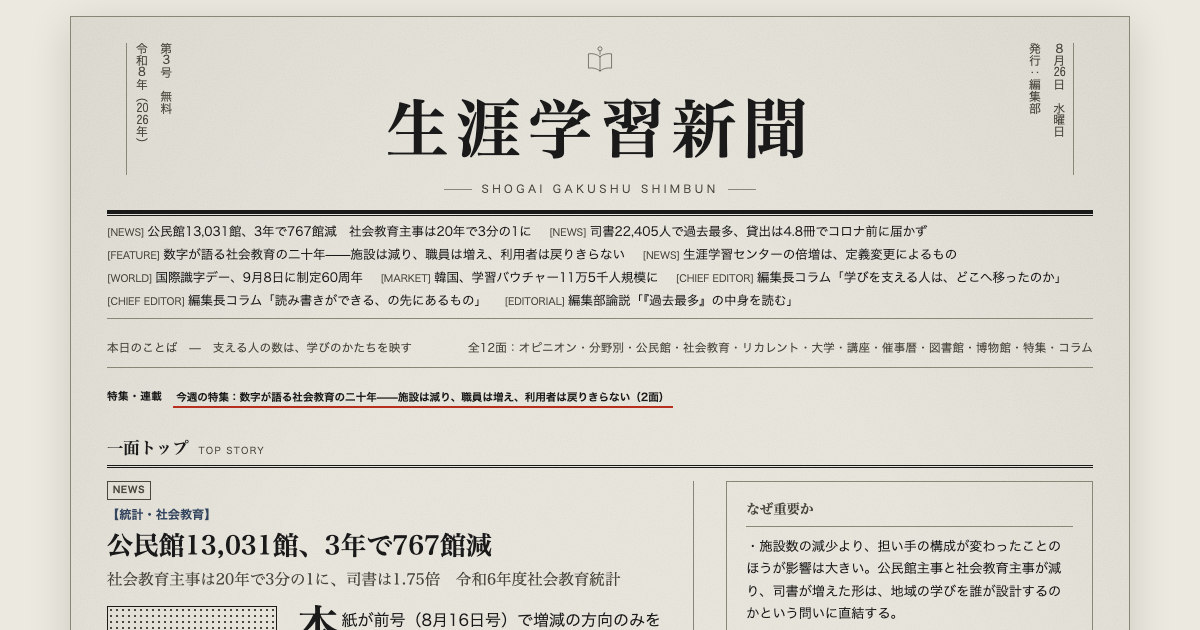
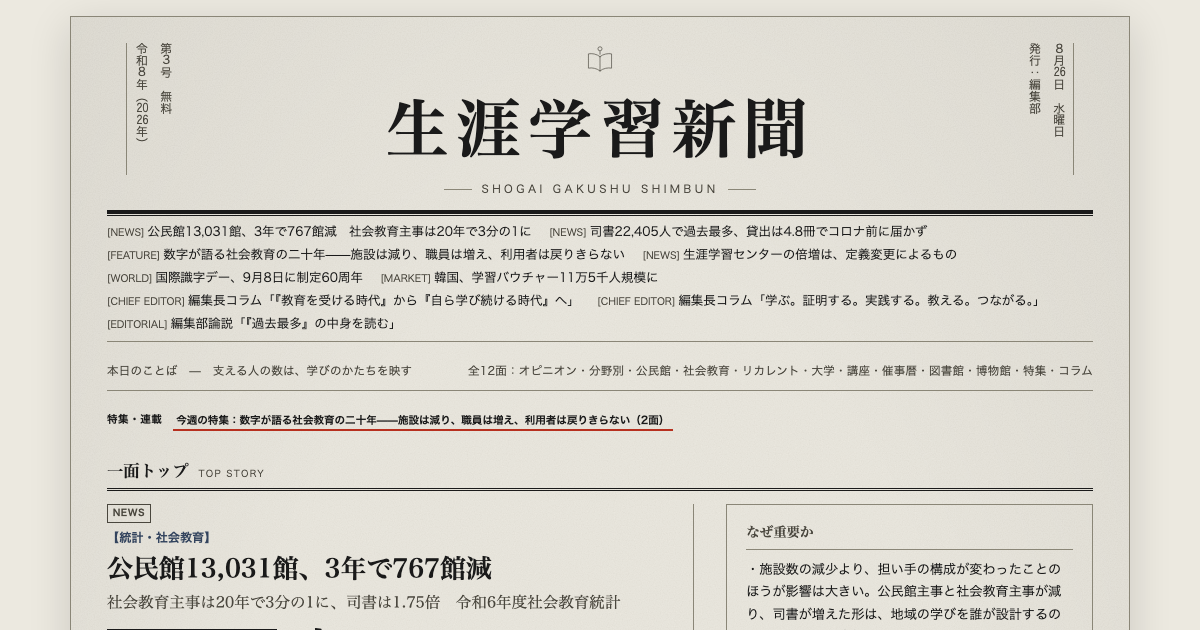
第3号の編集長コラム2本を本人の寄稿に差し替え
編集長（山仲元）から2本の原稿を受領し、私が起草した仮原稿と差し替えた。

- 第3回「『教育を受ける時代』から『自ら学び続ける時代』へ」
  1949年エルシノアの第1回国際成人教育会議から、1972年フォール報告
  『Learning to Be』の学習社会構想、1996年ドロール報告の学習の四本柱、
  2015年のSDG4、2022年マラケシュのCONFINTEA VIIまで、世界が半世紀以上
  かけて育ててきた歩みを辿る（14段落）
- 第4回「学ぶ。証明する。実践する。教える。つながる。」
  マイクロクレデンシャル、European Digital Credentials for Learning、
  OECD『Giving Informal Learning the Recognition it Deserves』（2026年6月）。
  前号のデジタルバッジのコラムの続編にあたる（14段落）

事実確認: CONFINTEA VIIの「140を超える国々」は142のユネスコ加盟国が参加
（2022年6月15〜17日）で正確。国際成人教育会議の約12年ごとの開催間隔、
OECD報告書の発表時期も本紙の取材メモと整合することを確認した。

あわせて見出し帯・紙面索引・3面の参照・meta・index・backnumbers・
feed.xml・archive.html のタイトルを更新し、OGP画像を再生成。

検証: JS構文OK／p2の3ボックスはHTML側とarticles側で一致（コラム1は1,280字で
完全一致）／全12面でデスクトップ・モバイルとも横溢れなし／
?goto=col-chief-editor-003b でのディープリンク表示を確認

Changed region(s): [[0.0925, 0.4222, 0.925, 1.0]]

diff --git a/issues/2026-08-26.html b/issues/2026-08-26.html
@@ -6,7 +6,7 @@
 <meta property="og:site_name" content="生涯学習新聞">
 <meta property="og:locale" content="ja_JP">
 <meta property="og:title" content="生涯学習新聞 — 2026年8月26日号（第3号）">
-<meta property="og:description" content="公民館13,031館、3年で767館減／社会教育主事は20年で3分の1に、司書は1.75倍／編集長コラム「学びを支える人は、どこへ移ったのか」「読み書きができる、の先にあるもの」">
+<meta property="og:description" content="公民館13,031館、3年で767館減／社会教育主事は20年で3分の1に、司書は1.75倍／編集長コラム「『教育を受ける時代』から『自ら学び続ける時代』へ」「学ぶ。証明する。実践する。教える。つながる。」">
 <link rel="icon" href="../icons/favicon.ico">
 <link rel="apple-touch-icon" href="../icons/apple-touch-icon.png">
 <link rel="manifest" href="../manifest.json">
@@ -969,18 +969,24 @@
         <div class="col-title-row">
           <span class="type-badge" data-type="CHIEF_EDITOR">CHIEF EDITOR</span>
         </div>
-        <div class="col-title">学びを支える人は、どこへ移ったのか<br><span class="col-subtitle">編集長コラム「学びの周辺」第<span class="tcy">3</span>回</span></div>
+        <div class="col-title">「教育を受ける時代」から「自ら学び続ける時代」へ<br><span class="col-subtitle">編集長コラム「学びの周辺」第<span class="tcy">3</span>回　世界の生涯学習・半世紀の歩み</span></div>
         <div class="col-byline">編集長　山仲　元</div>
         <p class="opinion-flag">本欄は編集長個人の見解であり、事実報道ではありません。筆者は一般財団法人日本生涯学習協議会の理事長を務めていますが、本稿は同協議会の公式見解を示すものではありません。</p>
         <div class="col-excerpt">
-          <p>今号の一面に、二本の線が交差する数字が並びました。</p>
-          <p>社会教育主事は、平成十七年度の四千百十九人から千四百八十二人へ。二十年でおよそ三分の一になりました。同じ期間に、図書館の司書は一万二千七百八十一人から二万二千四百五人へと、およそ一・七五倍に増えています。減った職と、増えた職。どちらも地域の学びを支える仕事です。</p>
-          <p>この二本の線を、単純な明暗として読むことはできません。司書が増えたのは、図書館が地域の学びの窓口として期待され、実際に人を配置してきた結果です。喜ばしいことだと思います。問題は、減ったほうの線が何を意味するかです。</p>
-          <p>社会教育主事という職の特徴は、特定の施設に属さないところにありました。公民館の講座も、学校と地域の連携も、青少年の活動も、横断して見渡し、つなぐ。建物ではなく地域を担当する職です。この職が三分の一になったということは、地域全体を見渡す視点が、それだけ薄くなったということでもあります。</p>
-          <p>司書は図書館を、学芸員は博物館を、それぞれ深く支えます。けれども、公民館の講座に来ている人と、図書館の読書会に来ている人と、博物館の講座に来ている人が、実は同じ悩みを抱えているかもしれない——そのことに気づくのは、施設の側に立つ人ではなく、施設と施設の間に立つ人の役割でした。</p>
-          <p>社会教育士という称号が生まれた背景には、この空白を埋めたいという願いがあったはずです。本紙が創刊号から、その養成をめぐる議論を追い続けてきたのも、同じ理由からです。ただ、称号を用意することと、その人が働く場所を用意することは、やはり別の仕事です。</p>
-          <p>統計は、起きたことしか教えてくれません。二十年かけて何が減ったのかは分かっても、その結果として何が起きなかったのか——開かれなかった講座、出会わなかった人、生まれなかった学びの輪——は、どの表にも載りません。数字を読むというのは、載っていないもののほうを想像する作業なのだと思います。</p>
-          <p><strong>編集長より</strong>　人が減っても施設が残れば、事業は続けられます。しかし、続けることと、新しく始めることは違います。次の二十年に何を始めるのかを考えるとき、それを構想する人がどこにいるのかを、あわせて考えなければなりません。</p>
+          <p>私たちは今、「生涯学習」という言葉を当たり前のように使っています。しかし、世界の教育の歴史を振り返ってみると、「人は何歳になっても学ぶ」という考え方が国際社会の共通認識となったのは、それほど昔のことではありません。</p>
+          <p>第二次世界大戦後、世界では教育の役割そのものが問い直されるようになりました。</p>
+          <p>1949年、UNESCOはデンマークのエルシノアで第1回国際成人教育会議を開催しました。戦争が終わって間もない時代です。そこで議論されたのは、単に仕事に必要な知識を教えるということではありませんでした。成人教育を通じて、平和や国際理解をどう築いていくか。その後、この国際会議は約12年ごとに開催され、世界の成人教育・生涯学習政策に大きな影響を与えていきます。</p>
+          <p>大きな転換点となったのが1972年です。</p>
+          <p>UNESCOのエドガー・フォール委員会が発表した『Learning to Be（未来の学習）』、いわゆる「フォール報告」は、「教育は子どもや若者だけのものではなく、人間の一生を通じて行われるべきものだ」という考えを世界に示しました。そして、「生涯教育」とともに「学習社会（Learning Society）」という構想を打ち出します。</p>
+          <p>学校を卒業したら教育は終わり、ではない。社会そのものが、人を育てる場所になる。現在では自然に聞こえるこの考え方が、半世紀以上前に国際社会へ提示されたことは、生涯学習の歴史を考えるうえで非常に重要です。</p>
+          <p>さらに1996年、ジャック・ドロールを委員長とするUNESCOの国際委員会が『Learning: The Treasure Within（学習―秘められた宝）』を発表します。ここで示されたのが、有名な「学習の四本柱」です。「知ることを学ぶ」「為すことを学ぶ」「共に生きることを学ぶ」「人間として生きることを学ぶ」。</p>
+          <p>学ぶ目的を、職業能力や知識の獲得だけに限定しない。人との関係、社会への参加、自分自身の成長まで含めて「学び」と考える。この考え方は、現在の生涯学習にもそのままつながっています。</p>
+          <p>そして2015年、国連の持続可能な開発目標、SDGsが採択されました。SDG4には、「すべての人々に包摂的かつ公平で質の高い教育を提供し、生涯学習の機会を促進する」という考え方が明確に位置づけられています。つまり、生涯学習は「学びたい人の趣味」から、世界が実現すべき社会基盤の一つへと位置づけが変わったのです。</p>
+          <p>さらに2022年、モロッコのマラケシュで開催された第7回国際成人教育会議では、140を超える国々が「生涯学習への権利」を現実のものにしていく方向性を確認しました。</p>
+          <p>こうして世界の生涯学習を振り返ってみると、大きな変化が見えてきます。<strong>「教育を受ける時代」から、「自ら学び続ける時代」へ。</strong></p>
+          <p>そして今、その生涯学習はさらに次の段階に入ろうとしています。AI、デジタル化、人生100年時代、働き方の変化。一度取得した知識や資格だけで一生を過ごすことが難しい社会になったからこそ、「何歳になっても学び直すこと」は特別なことではなくなってきました。</p>
+          <p>生涯学習とは、人生の後半にする勉強ではありません。<strong>人生そのものを豊かにし、変化する社会の中で自分らしく生き続けるための「学びの文化」なのです。</strong></p>
+          <p>世界が半世紀以上かけて育ててきた生涯学習という考え方は、今、これまで以上に私たちの身近なものになろうとしています。</p>
         </div>
         <button type="button" class="read-more" data-article-id="col-chief-editor-003">続きを読む（関連記事・タグなど）</button>
       </div>
@@ -1076,7 +1082,7 @@
         <h4>海外・国際機関</h4>
         <ul>
           <li><a href="#" onclick="jumpToArticle(event,'p8')"><span class="cc-badge">[WORLD]</span>国際識字デー、9月8日に制定60周年</a><span class="cc-desc">識字を欠く成人は世界で7億3,900万人。</span></li>
-          <li><a href="#" onclick="event.preventDefault();openArticleDialog('col-chief-editor-003b')"><span class="cc-badge">[CHIEF EDITOR]</span>読み書きができる、の先にあるもの</a><span class="cc-desc">編集長コラム。識字の定義の拡張について。</span></li>
+          <li><a href="#" onclick="event.preventDefault();openArticleDialog('col-chief-editor-003b')"><span class="cc-badge">[CHIEF EDITOR]</span>学ぶ。証明する。実践する。教える。つながる。</a><span class="cc-desc">編集長コラム。マイクロクレデンシャルとインフォーマル学習。</span></li>
         </ul>
       </div>
       <div class="category-card">
@@ -1121,8 +1127,8 @@
       <li><time>09:00</time><span class="arr-cat">[NEWS] 講座・教室</span><a href="#" onclick="jumpToArticle(event,'p6')">全国コミュニティ・スクール研究大会、京都で開催へ</a></li>
       <li><time>09:30</time><span class="arr-cat">[NEWS] 図書館</span><a href="#" onclick="jumpToArticle(event,'p8')">司書22,405人で過去最多、貸出は4.8冊</a></li>
       <li><time>09:45</time><span class="arr-cat">[WORLD] 国際機関</span><a href="#" onclick="event.preventDefault();openArticleDialog('world-003')">国際識字デー、9月8日に制定60周年</a></li>
-      <li><time>10:00</time><span class="arr-cat">[CHIEF_EDITOR] コラム</span><a href="#" onclick="event.preventDefault();openArticleDialog('col-chief-editor-003')">学びを支える人は、どこへ移ったのか</a></li>
-      <li><time>10:10</time><span class="arr-cat">[CHIEF_EDITOR] コラム</span><a href="#" onclick="event.preventDefault();openArticleDialog('col-chief-editor-003b')">読み書きができる、の先にあるもの</a></li>
+      <li><time>10:00</time><span class="arr-cat">[CHIEF_EDITOR] コラム</span><a href="#" onclick="event.preventDefault();openArticleDialog('col-chief-editor-003')">「教育を受ける時代」から「自ら学び続ける時代」へ</a></li>
+      <li><time>10:10</time><span class="arr-cat">[CHIEF_EDITOR] コラム</span><a href="#" onclick="event.preventDefault();openArticleDialog('col-chief-editor-003b')">学ぶ。証明する。実践する。教える。つながる。</a></li>
       <li><time>10:15</time><span class="arr-cat">[EDITORIAL] 論説</span><a href="#" onclick="event.preventDefault();openArticleDialog('editorial-003')">「過去最多」の中身を読む</a></li>
       <li><time>10:30</time><span class="arr-cat">[FEATURE] 特集</span><a href="#" onclick="event.preventDefault();openArticleDialog('feature-003')">数字が語る社会教育の二十年</a></li>
       <li><time>11:00</time><span class="arr-cat">[NEWS] 博物館</span><a href="#" onclick="jumpToArticle(event,'p9')">博物館1,346館、学芸員5,618人に</a></li>
@@ -1541,7 +1547,7 @@
 
     <ul class="toc-list">
       <li><span class="toc-page">1面</span><span class="toc-title">総合</span><span class="toc-desc">見出し帯／特集・連載／一面トップ「公民館13,031館、3年で767館減」／一面サブニュース（定義変更、図書館貸出、韓国バウチャー、国際識字デー）／指定管理者制度は公立施設の約3割</span></li>
-      <li><span class="toc-page">2面</span><span class="toc-title">オピニオン面</span><span class="toc-desc">編集長コラム「学びを支える人は、どこへ移ったのか」（全文）／編集長コラム「読み書きができる、の先にあるもの」（全文）／編集部論説「『過去最多』の中身を読む」（全文）／今週の特集「数字が語る社会教育の二十年」（全文）</span></li>
+      <li><span class="toc-page">2面</span><span class="toc-title">オピニオン面</span><span class="toc-desc">編集長コラム「『教育を受ける時代』から『自ら学び続ける時代』へ」（全文）／編集長コラム「学ぶ。証明する。実践する。教える。つながる。」（全文）／編集部論説「『過去最多』の中身を読む」（全文）／今週の特集「数字が語る社会教育の二十年」（全文）</span></li>
       <li><span class="toc-page">3面</span><span class="toc-title">分野別ニュース・小欄面</span><span class="toc-desc">8分野の見出し一覧／小欄・短信12欄／新着記事一覧14件</span></li>
       <li><span class="toc-page">4面</span><span class="toc-title">公民館・社会教育</span><span class="toc-desc">公民館の利用者はコロナ前の74％／生涯学習センターの倍増は定義変更によるもの（前号への補足）</span></li>
       <li><span class="toc-page">5面</span><span class="toc-title">リカレント・大学</span><span class="toc-desc">韓国の学習バウチャー11万5千人規模／大学の公開講座、秋の募集が本格化</span></li>
@@ -1717,65 +1723,77 @@
       image: null, imageCaption: null, featured: true, priority: 1, status: 'published',
     },
     {
-      id: 'col-chief-editor-003', slug: 'manabi-wo-sasaeru-hito-wa-dokohe-utsutta-noka', articleType: 'CHIEF_EDITOR',
-      title: '学びを支える人は、どこへ移ったのか',
-      subtitle: '編集長コラム「学びの周辺」第3回',
-      lead: '社会教育主事は20年で3分の1に、図書館の司書は1.75倍に。減った職と増えた職、どちらも地域の学びを支える仕事です。この二本の線が意味するものを考えます。',
-      category: 'コラム', tags: ['編集長コラム', '社会教育主事', '担い手', '統計'],
+      id: 'col-chief-editor-003', slug: 'kyoiku-wo-ukeru-jidai-kara-mizukara-manabi-tsuzukeru-jidai-he', articleType: 'CHIEF_EDITOR',
+      title: '「教育を受ける時代」から「自ら学び続ける時代」へ',
+      subtitle: '編集長コラム「学びの周辺」第3回　世界の生涯学習・半世紀の歩み',
+      lead: '「人は何歳になっても学ぶ」という考え方が国際社会の共通認識となったのは、それほど昔のことではありません。1949年のエルシノアから2022年のマラケシュまで、世界が半世紀以上かけて育ててきた歩みを振り返ります。',
+      category: 'コラム', tags: ['編集長コラム', '生涯学習の歴史', 'ユネスコ', 'フォール報告', 'ドロール報告', 'SDGs'],
       author: '山仲　元', authorRole: '生涯学習新聞 編集長',
       publishedAt: '2026-08-26T10:00:00+09:00', updatedAt: '2026-08-26T10:00:00+09:00',
-      sourceName: '生涯学習新聞編集部（編集長本人の所感）', sourceUrl: null, sourcePublishedAt: null,
+      sourceName: '生涯学習新聞編集部（編集長本人の寄稿）', sourceUrl: null, sourcePublishedAt: null,
       factOrOpinion: 'opinion',
       editorNote: '本欄は編集長個人の見解であり、事実報道ではありません。筆者は一般財団法人日本生涯学習協議会の理事長を務めていますが、本稿は同協議会の公式見解を示すものではありません。',
       keyPoints: [
-        '社会教育主事の特徴は、特定の施設に属さず地域全体を横断して見渡す職であったこと',
-        'その職が3分の1になったことは、地域を見渡す視点がそれだけ薄くなったことを意味する',
-        '統計は起きたことしか教えない。開かれなかった講座や生まれなかった学びの輪は表に載らない',
+        '1949年のエルシノア会議以降、国際成人教育会議は約12年ごとに開かれ、世界の政策に影響を与えてきた',
+        '1972年のフォール報告が「学習社会」を、1996年のドロール報告が「学習の四本柱」を示した',
+        '2015年のSDG4により、生涯学習は世界が実現すべき社会基盤の一つへと位置づけが変わった',
       ],
       body: [
-        '今号の一面に、二本の線が交差する数字が並びました。',
-        '社会教育主事は、平成十七年度の四千百十九人から千四百八十二人へ。二十年でおよそ三分の一になりました。同じ期間に、図書館の司書は一万二千七百八十一人から二万二千四百五人へと、およそ一・七五倍に増えています。減った職と、増えた職。どちらも地域の学びを支える仕事です。',
-        'この二本の線を、単純な明暗として読むことはできません。司書が増えたのは、図書館が地域の学びの窓口として期待され、実際に人を配置してきた結果です。喜ばしいことだと思います。問題は、減ったほうの線が何を意味するかです。',
-        '社会教育主事という職の特徴は、特定の施設に属さないところにありました。公民館の講座も、学校と地域の連携も、青少年の活動も、横断して見渡し、つなぐ。建物ではなく地域を担当する職です。この職が三分の一になったということは、地域全体を見渡す視点が、それだけ薄くなったということでもあります。',
-        '司書は図書館を、学芸員は博物館を、それぞれ深く支えます。けれども、公民館の講座に来ている人と、図書館の読書会に来ている人と、博物館の講座に来ている人が、実は同じ悩みを抱えているかもしれない——そのことに気づくのは、施設の側に立つ人ではなく、施設と施設の間に立つ人の役割でした。',
-        '社会教育士という称号が生まれた背景には、この空白を埋めたいという願いがあったはずです。本紙が創刊号から、その養成をめぐる議論を追い続けてきたのも、同じ理由からです。ただ、称号を用意することと、その人が働く場所を用意することは、やはり別の仕事です。',
-        '統計は、起きたことしか教えてくれません。二十年かけて何が減ったのかは分かっても、その結果として何が起きなかったのか——開かれなかった講座、出会わなかった人、生まれなかった学びの輪——は、どの表にも載りません。数字を読むというのは、載っていないもののほうを想像する作業なのだと思います。',
-        '編集長より　人が減っても施設が残れば、事業は続けられます。しかし、続けることと、新しく始めることは違います。次の二十年に何を始めるのかを考えるとき、それを構想する人がどこにいるのかを、あわせて考えなければなりません。',
+        "私たちは今、「生涯学習」という言葉を当たり前のように使っています。しかし、世界の教育の歴史を振り返ってみると、「人は何歳になっても学ぶ」という考え方が国際社会の共通認識となったのは、それほど昔のことではありません。",
+        "第二次世界大戦後、世界では教育の役割そのものが問い直されるようになりました。",
+        "1949年、UNESCOはデンマークのエルシノアで第1回国際成人教育会議を開催しました。戦争が終わって間もない時代です。そこで議論されたのは、単に仕事に必要な知識を教えるということではありませんでした。成人教育を通じて、平和や国際理解をどう築いていくか。その後、この国際会議は約12年ごとに開催され、世界の成人教育・生涯学習政策に大きな影響を与えていきます。",
+        "大きな転換点となったのが1972年です。",
+        "UNESCOのエドガー・フォール委員会が発表した『Learning to Be（未来の学習）』、いわゆる「フォール報告」は、「教育は子どもや若者だけのものではなく、人間の一生を通じて行われるべきものだ」という考えを世界に示しました。そして、「生涯教育」とともに「学習社会（Learning Society）」という構想を打ち出します。",
+        "学校を卒業したら教育は終わり、ではない。社会そのものが、人を育てる場所になる。現在では自然に聞こえるこの考え方が、半世紀以上前に国際社会へ提示されたことは、生涯学習の歴史を考えるうえで非常に重要です。",
+        "さらに1996年、ジャック・ドロールを委員長とするUNESCOの国際委員会が『Learning: The Treasure Within（学習―秘められた宝）』を発表します。ここで示されたのが、有名な「学習の四本柱」です。「知ることを学ぶ」「為すことを学ぶ」「共に生きることを学ぶ」「人間として生きることを学ぶ」。",
+        "学ぶ目的を、職業能力や知識の獲得だけに限定しない。人との関係、社会への参加、自分自身の成長まで含めて「学び」と考える。この考え方は、現在の生涯学習にもそのままつながっています。",
+        "そして2015年、国連の持続可能な開発目標、SDGsが採択されました。SDG4には、「すべての人々に包摂的かつ公平で質の高い教育を提供し、生涯学習の機会を促進する」という考え方が明確に位置づけられています。つまり、生涯学習は「学びたい人の趣味」から、世界が実現すべき社会基盤の一つへと位置づけが変わったのです。",
+        "さらに2022年、モロッコのマラケシュで開催された第7回国際成人教育会議では、140を超える国々が「生涯学習への権利」を現実のものにしていく方向性を確認しました。",
+        "こうして世界の生涯学習を振り返ってみると、大きな変化が見えてきます。「教育を受ける時代」から、「自ら学び続ける時代」へ。",
+        "そして今、その生涯学習はさらに次の段階に入ろうとしています。AI、デジタル化、人生100年時代、働き方の変化。一度取得した知識や資格だけで一生を過ごすことが難しい社会になったからこそ、「何歳になっても学び直すこと」は特別なことではなくなってきました。",
+        "生涯学習とは、人生の後半にする勉強ではありません。人生そのものを豊かにし、変化する社会の中で自分らしく生き続けるための「学びの文化」なのです。",
+        "世界が半世紀以上かけて育ててきた生涯学習という考え方は、今、これまで以上に私たちの身近なものになろうとしています。",
       ],
       relatedArticles: [
-        { title: '公民館13,031館、3年で767館減', url: 'front-lead-toukei-003' },
-        { title: '読み書きができる、の先にあるもの（編集長コラム）', url: 'col-chief-editor-003b' },
+        { title: '学ぶ。証明する。実践する。教える。つながる。（編集長コラム）', url: 'col-chief-editor-003b' },
+        { title: '国際識字デー、9月8日に制定60周年', url: 'world-003' },
       ],
       image: null, imageCaption: null, featured: true, priority: 1, status: 'published',
     },
     {
-      id: 'col-chief-editor-003b', slug: 'yomikaki-ga-dekiru-no-saki-ni-aru-mono', articleType: 'CHIEF_EDITOR',
-      title: '読み書きができる、の先にあるもの',
-      subtitle: '編集長コラム「学びの周辺」第4回　国際識字デー60周年に寄せて',
-      lead: '9月8日の国際識字デーは、今年で制定60周年を迎えます。識字率の高い日本には縁遠い話題に見えて、実はそうではないのかもしれません。',
-      category: 'コラム', tags: ['編集長コラム', '識字', '国際識字デー', 'リテラシー'],
+      id: 'col-chief-editor-003b', slug: 'manabu-shomei-suru-jissen-suru-oshieru-tsunagaru', articleType: 'CHIEF_EDITOR',
+      title: '学ぶ。証明する。実践する。教える。つながる。',
+      subtitle: '編集長コラム「学びの周辺」第4回　小さな学びを積み重ねる時代へ',
+      lead: '世界の生涯学習はいま、大きな転換期を迎えています。マイクロクレデンシャル、デジタル認定証、そしてインフォーマル学習の承認。「一度大きな資格を取得する社会」から「小さな学びを積み重ね、その成果を社会と共有する社会」へ。',
+      category: 'コラム', tags: ['編集長コラム', 'マイクロクレデンシャル', 'デジタルバッジ', 'インフォーマル学習', 'AI', 'OECD'],
       author: '山仲　元', authorRole: '生涯学習新聞 編集長',
       publishedAt: '2026-08-26T10:10:00+09:00', updatedAt: '2026-08-26T10:10:00+09:00',
-      sourceName: '生涯学習新聞編集部（編集長本人の所感）', sourceUrl: null, sourcePublishedAt: null,
+      sourceName: '生涯学習新聞編集部（編集長本人の寄稿）', sourceUrl: null, sourcePublishedAt: null,
       factOrOpinion: 'opinion',
-      editorNote: '本欄は編集長個人の見解であり、事実報道ではありません。筆者は一般財団法人日本生涯学習協議会の理事長を務めていますが、本稿は同協議会の公式見解を示すものではありません。文中の統計はユネスコの公表値によります。',
+      editorNote: '本欄は編集長個人の見解であり、事実報道ではありません。筆者は一般財団法人日本生涯学習協議会の理事長を務めていますが、本稿は同協議会の公式見解を示すものではありません。本稿は前号（8月16日号）の編集長コラム「学びを『記録』から『力』へ」の続編にあたります。',
       keyPoints: [
-        '2026年の国際識字デーは制定60周年。テーマに「人々、地球、繁栄」が並ぶ',
-        '識字の対象は文字の読み書きから、情報を判断し行動に移す力へと広がっている',
-        '日本でも、制度の説明が読めないために支援に届かない人がいる',
+        'マイクロクレデンシャルは、数時間から数週間の短い学習の成果を証明する仕組み。EUでは2022年に共通の考え方が採択された',
+        'OECDは2026年6月、インフォーマル学習の承認を求める報告書を発表。仕事や地域活動、独学で得た力も学習成果に含める',
+        '学ぶ・証明する・実践する・教える・つながる——この循環そのものが生涯学習になっていく',
       ],
       body: [
-        '九月八日は国際識字デーです。一九六六年のユネスコ総会で定められ、今年で六十年になります。',
-        '今年のテーマは「人々、地球、繁栄のための識字」。文字を読めるようにする、という一点だった主題に、地球環境と経済がつながっている点が目を引きます。ユネスコによれば、基本的な識字能力を欠く青年と成人は、二〇二四年時点で世界に少なくとも七億三千九百万人。学校に通っていない子どもと若者は二億七千二百万人にのぼるといいます。',
-        '日本の識字率は高い、と私たちはつい考えます。事実、文字を読めない人はごくわずかでしょう。けれども、テーマに掲げられた三つの言葉を眺めていると、識字という語が指す範囲が変わってきていることに気づきます。',
-        '災害の避難情報を読んで自分の行動を決める。行政の手続きをオンラインで済ませる。健康診断の結果を理解して医師に質問する。契約書の条項を読んで不利な点に気づく。生成AIが書いた文章を、鵜呑みにせずに確かめる。これらはすべて、文字が読めることの先にある力です。',
-        '公民館で長く講座を見てきて感じるのは、この「先にある力」に不安を持つ方が、決して少なくないということです。スマートフォンの使い方講座に来られる方の質問は、操作の手順よりも「これを押して大丈夫か」という判断の部分に集中します。読めないのではなく、読んだ後にどうすればよいかが分からない。そこに支援が要ります。',
-        '制度の側から見ると、ここは落とし穴になりやすい領域です。支援制度は用意されている。案内も配られている。けれども、その案内を読んで自分が対象だと判断し、申請書を書いて窓口へ持っていくまでには、いくつもの段階があります。どこか一つでつまずけば、制度は存在していても届きません。前号で紹介したユネスコの高齢者調査が、障壁として「講座の外側」を挙げていたことと、これは重なります。',
-        '六十年前、識字は開発途上国の課題として語られました。いま同じ言葉が、豊かとされる国々にも投げかけられています。読み書きができることを前提に組み立てられた社会が、その前提の上にさらに多くを要求するようになったからです。',
-        '編集長より　生涯学習の役割は、新しい知識を増やすことだけではありません。すでに持っている力を、いまの社会で使えるようにし直すこと。それも学びの、大切な半分だと思います。',
+        "世界の生涯学習はいま、大きな転換期を迎えています。その背景にあるのが、AI、デジタル化、働き方の変化、長寿化です。",
+        "これまでの社会では、「学校で学ぶ→就職する→身につけた知識や技術を使って働く」という人生モデルが一般的でした。しかし現在は、一度身につけた知識だけで40年、50年と働き続けることが難しくなっています。",
+        "OECDは2025年の教育政策報告で、デジタル化や人口構造の変化によって「いつ、どこで、なぜ学ぶのか」が変化していると指摘しています。さらに2026年には、AI時代に対応するため、AIリテラシー、デジタルスキル、批判的思考を教育に組み込み、成人にも継続的なアップスキリング、リスキリングの機会を提供する必要性を強調しています。",
+        "そこで世界的に注目されているのが、「小さな学びを積み上げていく」という考え方です。代表的なものが「マイクロクレデンシャル」です。大学の学位のように数年間学んで一つの大きな資格を取得するだけではなく、数時間、数日、数週間といった比較的短い学習によって身につけた知識や技能について、その学習成果を証明していきます。",
+        "EUでは2022年に、マイクロクレデンシャルを生涯学習や雇用に活用するための共通的な考え方が採択され、2025年から2026年にかけて各国で実装が進んでいます。",
+        "そこで重要になるのが、デジタル認定証やデジタルバッジです。紙の認定証をデジタル画像にしただけではありません。誰が発行したのか。何を学んだのか。どのような評価を受けたのか。本当にその人が取得したものなのか。こうした情報を確認でき、本人が自分の学習履歴として保存し、企業や教育機関などへ提示できる仕組みへと進化しています。",
+        "EUではすでに「European Digital Credentials for Learning」という仕組みが運用され、学位、研修修了証、マイクロクレデンシャルなどをデジタルで発行し、真正性を確認しながら共有することが可能になっています。",
+        "これは生涯学習にとって、とても大きな変化です。これまでは「どこで学んだか」が重視されてきました。これからは、「何を学び、何ができるようになったのか」が、より重要になっていくからです。",
+        "もう一つ興味深い動きがあります。2026年6月、OECDは『Giving Informal Learning the Recognition it Deserves』という報告書を発表しました。学校や講座で学んだことだけではなく、仕事、地域活動、人との交流、独学など、日常生活の中で身につけた能力も、生涯学習の重要な一部として捉える必要があるという考え方です。",
+        "これは、生涯学習に関わる私たちにとって重要な視点ではないでしょうか。例えば、ある技術を学び、作品をつくれるようになる。次に人へ教える。教室を開く。仲間が集まる。コミュニティが生まれる。さらに、その経験を生かして新しい活動を始める。ここまで含めて、その人の「学習成果」なのです。",
+        "AIが広がれば広がるほど、人間にしかできないことの価値も高まります。創造すること。人に伝えること。人とつながること。誰かの成長を支えること。地域やコミュニティをつくること。",
+        "だから私は、これからの生涯学習は単なる「資格取得」ではなくなると考えています。学ぶ。証明する。実践する。教える。つながる。そして、また学ぶ。この循環そのものが、生涯学習になっていく。",
+        "認定証や資格も、学びの「ゴール」ではありません。むしろ、その人が次の活動へ進むための「パスポート」になっていくのではないでしょうか。",
+        "世界の生涯学習は今、「一度大きな資格を取得する社会」から、「人生を通じて小さな学びを積み重ね、その成果を社会と共有する社会」へ動き始めています。日本の生涯学習も、この大きな変化をどう取り込んでいくのか。まさに今、その次の形を考える時期に来ています。",
       ],
       relatedArticles: [
-        { title: '国際識字デー、9月8日に制定60周年', url: 'world-003' },
+        { title: '「教育を受ける時代」から「自ら学び続ける時代」へ（編集長コラム）', url: 'col-chief-editor-003' },
       ],
       image: null, imageCaption: null, featured: true, priority: 1, status: 'published',
       displaySlot: 'auto-op-articles-p2',
@@ -2033,8 +2051,8 @@
       { type: 'NEWS', text: '生涯学習センターの倍増は、定義変更によるもの', href: '#p4' },
       { type: 'WORLD', text: '国際識字デー、9月8日に制定60周年', href: '#p8' },
       { type: 'MARKET', text: '韓国、学習バウチャー11万5千人規模に', href: '#p5' },
-      { type: 'CHIEF_EDITOR', text: '編集長コラム「学びを支える人は、どこへ移ったのか」', href: 'col-chief-editor-003' },
-      { type: 'CHIEF_EDITOR', text: '編集長コラム「読み書きができる、の先にあるもの」', href: 'col-chief-editor-003b' },
+      { type: 'CHIEF_EDITOR', text: '編集長コラム「『教育を受ける時代』から『自ら学び続ける時代』へ」', href: 'col-chief-editor-003' },
+      { type: 'CHIEF_EDITOR', text: '編集長コラム「学ぶ。証明する。実践する。教える。つながる。」', href: 'col-chief-editor-003b' },
       { type: 'EDITORIAL', text: '編集部論説「『過去最多』の中身を読む」', href: 'editorial-003' },
     ];
     el.innerHTML = items.map((it) =>

diff --git a/archive.html b/archive.html
@@ -147,7 +147,7 @@
 </div>
 
 <script>
-  const articles = [{"issueDate": "2026-08-05", "issueLabel": "創刊第1号", "id": "front-lead-shakaikyoiku", "articleType": "NEWS", "title": "社会教育の在り方、中教審の審議が大詰めへ", "subtitle": "特別部会が意見整理を公表、社会教育士の養成も論点に", "lead": "中央教育審議会生涯学習分科会の下に置かれた「社会教育の在り方に関する特別部会」の審議が大詰めを迎えている。文部科学省は令和8年5月22日、同部会の「審議事項2に関する意見の整理」を公表した。", "category": "総合", "tags": ["政策", "中央教育審議会", "社会教育"], "publishedAt": "2026-08-05T07:00:00+09:00"}, {"issueDate": "2026-08-05", "issueLabel": "創刊第1号", "id": "col-chief-editor-001", "articleType": "CHIEF_EDITOR", "title": "創刊にあたって——学びは誰のものか", "subtitle": "編集長コラム「学びの周辺」第1回", "lead": "本日、生涯学習新聞を創刊します。制度が整うほどに、学びは「提供されるもの」の顔をし始める——その循環をどう取り戻すかを考えます。", "category": "コラム", "tags": ["編集長コラム", "創刊", "生涯学習"], "publishedAt": "2026-08-05T10:00:00+09:00"}, {"issueDate": "2026-08-05", "issueLabel": "創刊第1号", "id": "editorial-001", "articleType": "EDITORIAL", "title": "社会教育士という称号は、何を変えるのか", "subtitle": "編集部はこう見る", "lead": "中教審の特別部会と並行して、社会教育主事・社会教育士の養成に関するワーキング・グループの審議が続いている。2020年に創設された称号は、地域に何をもたらしうるのか。", "category": "論説", "tags": ["論説", "社会教育士", "担い手"], "publishedAt": "2026-08-05T10:15:00+09:00"}, {"issueDate": "2026-08-05", "issueLabel": "創刊第1号", "id": "feature-001", "articleType": "FEATURE", "title": "図書館は「読む」だけの場所ではなくなる——文科省報告書が描く次の図書館像", "subtitle": "今週の特集", "lead": "文部科学省が令和8年3月17日に公表した「図書館が拓く未来の学びと地域社会（報告書）」は、公共図書館に「読む」×「集う」×「学ぶ」の掛け算による地域共創を求めた。", "category": "特集", "tags": ["特集", "図書館", "地域共創"], "publishedAt": "2026-08-05T10:30:00+09:00"}, {"issueDate": "2026-08-05", "issueLabel": "創刊第1号", "id": "policy-001", "articleType": "MARKET", "title": "社会教育士、養成のワーキング・グループが審議継続", "subtitle": null, "lead": "「社会教育主事・社会教育士養成等の改善・充実に関するワーキング・グループ」は令和8年7月3日に第7回の議事録が公表された。2020年創設の称号は地域に定着するか。", "category": "公民館・社会教育", "tags": ["社会教育士", "担い手", "制度"], "publishedAt": "2026-08-05T10:45:00+09:00"}, {"issueDate": "2026-08-05", "issueLabel": "創刊第1号", "id": "recurrent-001", "articleType": "BUSINESS", "title": "「リカレント教育エコシステム構築支援事業」とは何か", "subtitle": null, "lead": "2025年7月18日、令和7年度から始動する「リカレント教育エコシステム構築支援事業」が発表された。大学ならではの「深い学び」を通じたキャリアアップ支援の枠組みである。", "category": "リカレント・大学", "tags": ["リカレント教育", "大学", "政策"], "publishedAt": "2026-08-05T08:30:00+09:00"}, {"issueDate": "2026-08-05", "issueLabel": "創刊第1号", "id": "recurrent-002", "articleType": "MARKET", "title": "通信制大学の在学者、約8割が社会人", "subtitle": null, "lead": "通信制大学の在学者のうち、およそ80％を社会人が占めるとされる。初年度納付金は平均20万円台とされ、費用面のハードルの低さが働きながら学ぶ層の受け皿になっている。", "category": "リカレント・大学", "tags": ["リカレント教育", "通信制大学", "社会人"], "publishedAt": "2026-08-05T08:00:00+09:00"}, {"issueDate": "2026-08-05", "issueLabel": "創刊第1号", "id": "culture-001", "articleType": "CULTURE", "title": "博物館という装置は、何を引き受けてきたか", "subtitle": null, "lead": "「望ましい基準」の全部改正でデジタルアーカイブの作成が努力義務として書き込まれた。保存と公開という博物館の二面性を、あらためて考える。", "category": "博物館・文化", "tags": ["博物館", "デジタルアーカイブ", "文化"], "publishedAt": "2026-08-05T11:00:00+09:00"}, {"issueDate": "2026-08-16", "issueLabel": "第2号", "id": "front-lead-unesco-older-adults", "articleType": "WORLD", "title": "ユネスコ、高齢者の学び直しを5か国調査", "subtitle": "日本の事例は立教セカンドステージ大学　障壁に資金・デジタル・年齢差別", "lead": "ユネスコ生涯学習研究所（UIL）が、高齢者向けリスキリング・アップスキリング事業の実施条件を比較した調査報告書を公表した。対象はコロンビア、日本、シンガポール、スウェーデン、米国の5か国である。", "category": "総合", "tags": ["海外", "ユネスコ", "シニアの学び", "リスキリング"], "publishedAt": "2026-08-16T07:00:00+09:00"}, {"issueDate": "2026-08-16", "issueLabel": "第2号", "id": "col-chief-editor-002", "articleType": "CHIEF_EDITOR", "title": "学びを「記録」から「力」へ", "subtitle": "――デジタルバッジが拓く、新しい生涯学習のかたち／編集長コラム「学びの周辺」第2回", "lead": "「受講した事実」だけでなく、「何を学び、どのような能力を身につけたのか」を社会に分かりやすく示す仕組みが要る。マイクロクレデンシャルとデジタルバッジが拓く、生涯学習の新しいかたちを考えます。", "category": "コラム", "tags": ["編集長コラム", "デジタルバッジ", "マイクロクレデンシャル", "認定制度", "生涯学習"], "publishedAt": "2026-08-16T10:15:00+09:00"}, {"issueDate": "2026-08-16", "issueLabel": "第2号", "id": "editorial-002", "articleType": "EDITORIAL", "title": "成人の16％——生涯学習は予算配分の問題である", "subtitle": "編集部はこう見る", "lead": "ILOが2026年5月5日に公表した旗艦報告書は、世界の15〜64歳のうち体系的な訓練を受けた人は16％にとどまるとした。この数字を、意欲の不足として読むことはできない。", "category": "論説", "tags": ["論説", "ILO", "社会教育費", "予算"], "publishedAt": "2026-08-16T10:30:00+09:00"}, {"issueDate": "2026-08-16", "issueLabel": "第2号", "id": "feature-002", "articleType": "FEATURE", "title": "高齢者の学び直しを、世界はどう見ているか——ユネスコ5か国調査と日本", "subtitle": "今週の特集", "lead": "ユネスコ生涯学習研究所の調査報告書が、高齢者向けリスキリング・アップスキリング事業を5か国で比較した。担い手の顔ぶれは国によってまるで違う。", "category": "特集", "tags": ["特集", "ユネスコ", "シニアの学び", "国際比較"], "publishedAt": "2026-08-16T10:45:00+09:00"}, {"issueDate": "2026-08-16", "issueLabel": "第2号", "id": "stats-002", "articleType": "NEWS", "title": "公民館は減り、図書館・博物館は過去最多", "subtitle": "令和6年度社会教育統計の確定値", "lead": "文部科学省が令和8年3月27日に公表した令和6年度社会教育統計の確定値では、施設種別で明暗が分かれた。公民館は施設数も指導系職員も減少し、図書館・博物館は過去最多となった。", "category": "公民館・社会教育", "tags": ["統計", "社会教育調査", "公民館", "図書館", "博物館"], "publishedAt": "2026-08-16T07:30:00+09:00"}, {"issueDate": "2026-08-16", "issueLabel": "第2号", "id": "policy-002", "articleType": "NEWS", "title": "中教審特別部会、8月時点でも取りまとめ未公表", "subtitle": null, "lead": "「社会教育の在り方に関する特別部会」について、本紙が確認した範囲では、8月中旬の時点でも最終的な取りまとめは公表されていない。", "category": "政策・行政", "tags": ["政策", "中央教育審議会", "社会教育"], "publishedAt": "2026-08-16T08:00:00+09:00"}, {"issueDate": "2026-08-16", "issueLabel": "第2号", "id": "recurrent-003", "articleType": "NEWS", "title": "立教セカンドステージ大学、ユネスコ報告書の事例に", "subtitle": null, "lead": "ユネスコ生涯学習研究所の高齢者リスキリング調査で、日本の事例として取り上げられたのは立教大学の「立教セカンドステージ大学」だった。2008年開設、50歳以上が対象の課程である。", "category": "リカレント・大学", "tags": ["リカレント教育", "大学", "シニアの学び", "ユネスコ"], "publishedAt": "2026-08-16T08:30:00+09:00"}, {"issueDate": "2026-08-16", "issueLabel": "第2号", "id": "recurrent-004", "articleType": "MARKET", "title": "OECD「スキル・ファースト労働市場」が問うもの", "subtitle": null, "lead": "OECDが2026年6月18日に公表した報告書は、学歴や資格ではなく実際の技能を軸に採用・人材管理・能力開発を組み替えることを主張する。学び直しの成果を誰がどう認めるのかが論点になる。", "category": "リカレント・大学", "tags": ["OECD", "リスキリング", "マイクロクレデンシャル", "採用"], "publishedAt": "2026-08-16T08:45:00+09:00"}, {"issueDate": "2026-08-16", "issueLabel": "第2号", "id": "world-002", "articleType": "WORLD", "title": "ILO、体系的な訓練を受けた成人は世界で16％", "subtitle": null, "lead": "国際労働機関（ILO）が2026年5月5日、旗艦報告書の2026年版を生涯学習をテーマに公表した。訓練機会は正規雇用に強く偏っている。", "category": "海外・国際機関", "tags": ["海外", "ILO", "成人学習", "統計"], "publishedAt": "2026-08-16T11:00:00+09:00"}, {"issueDate": "2026-08-16", "issueLabel": "第2号", "id": "library-002", "articleType": "WORLD", "title": "米国、図書館助成を140万ドル増額　解体迫られたIMLSは存続", "subtitle": null, "lead": "2026会計年度の歳出法が2026年2月3日に成立し、LSTA関連予算は前年から140万ドル増の2億1,250万ドルとなった。一方2027年度の予算教書は成人教育をゼロ要求としている。", "category": "図書館", "tags": ["海外", "米国", "図書館", "財源", "成人教育"], "publishedAt": "2026-08-16T09:45:00+09:00"}, {"issueDate": "2026-08-16", "issueLabel": "第2号", "id": "culture-002", "articleType": "CULTURE", "title": "宮城県美術館、3年ぶりに再開　「見える収蔵庫」を新設", "subtitle": null, "lead": "2026年6月20日にリニューアルオープン。約3年の休館中に「見える収蔵庫」「キッズスタジオ」が新設された。開館記念展は8月23日まで。", "category": "博物館・文化", "tags": ["博物館", "美術館", "リニューアル", "収蔵"], "publishedAt": "2026-08-16T10:00:00+09:00"}, {"issueDate": "2026-08-26", "issueLabel": "第3号", "id": "front-lead-toukei-003", "articleType": "NEWS", "title": "公民館13,031館、3年で767館減", "subtitle": "社会教育主事は20年で3分の1に、司書は1.75倍　令和6年度社会教育統計", "lead": "本紙が前号で増減の方向のみを報じた令和6年度社会教育統計について、文部科学省の公表資料から具体的な数値を確認した。公民館は13,031館で、前回令和3年度調査から767館、5.6％減った。", "category": "総合", "tags": ["統計", "社会教育", "公民館", "社会教育主事", "司書"], "publishedAt": "2026-08-26T07:00:00+09:00"}, {"issueDate": "2026-08-26", "issueLabel": "第3号", "id": "col-chief-editor-003", "articleType": "CHIEF_EDITOR", "title": "学びを支える人は、どこへ移ったのか", "subtitle": "編集長コラム「学びの周辺」第3回", "lead": "社会教育主事は20年で3分の1に、図書館の司書は1.75倍に。減った職と増えた職、どちらも地域の学びを支える仕事です。この二本の線が意味するものを考えます。", "category": "コラム", "tags": ["編集長コラム", "社会教育主事", "担い手", "統計"], "publishedAt": "2026-08-26T10:00:00+09:00"}, {"issueDate": "2026-08-26", "issueLabel": "第3号", "id": "col-chief-editor-003b", "articleType": "CHIEF_EDITOR", "title": "読み書きができる、の先にあるもの", "subtitle": "編集長コラム「学びの周辺」第4回　国際識字デー60周年に寄せて", "lead": "9月8日の国際識字デーは、今年で制定60周年を迎えます。識字率の高い日本には縁遠い話題に見えて、実はそうではないのかもしれません。", "category": "コラム", "tags": ["編集長コラム", "識字", "国際識字デー", "リテラシー"], "publishedAt": "2026-08-26T10:10:00+09:00"}, {"issueDate": "2026-08-26", "issueLabel": "第3号", "id": "editorial-003", "articleType": "EDITORIAL", "title": "「過去最多」の中身を読む——定義が変われば、数字も変わる", "subtitle": "編集部はこう見る", "lead": "生涯学習センターは496施設から1,079施設へと倍増し過去最多となった。ただし公表資料には、この増加が定義変更によるものであるという但し書きが付いている。", "category": "論説", "tags": ["論説", "統計", "生涯学習センター", "定義変更"], "publishedAt": "2026-08-26T10:15:00+09:00"}, {"issueDate": "2026-08-26", "issueLabel": "第3号", "id": "feature-003", "articleType": "FEATURE", "title": "数字が語る社会教育の二十年——施設は減り、職員は増え、利用者は戻りきらない", "subtitle": "今週の特集", "lead": "令和6年度社会教育統計は平成16年度からの推移を並べて示している。20年分を通して読むと、三つの異なる動きが同時に進んでいることが分かる。", "category": "特集", "tags": ["特集", "統計", "社会教育", "長期推移"], "publishedAt": "2026-08-26T10:30:00+09:00"}, {"issueDate": "2026-08-26", "issueLabel": "第3号", "id": "stats-003", "articleType": "NEWS", "title": "生涯学習センターの倍増は、定義変更によるもの", "subtitle": "前号の記述に但し書きを補う", "lead": "生涯学習センターは496施設から1,079施設へ117.5％増えたが、公表資料には定義変更による整理である旨の注記が付いている。", "category": "統計・調査", "tags": ["統計", "生涯学習センター", "定義変更", "訂正・補足"], "publishedAt": "2026-08-26T08:00:00+09:00"}, {"issueDate": "2026-08-26", "issueLabel": "第3号", "id": "recurrent-005", "articleType": "MARKET", "title": "韓国、学習バウチャー11万5千人規模に", "subtitle": "AI・デジタル枠を新設、国家奨学金との併給も解禁", "lead": "韓国教育部が2026年3月9日に発表した平生教育利用券事業は、支援対象を11万5千人規模としている。日本には雇用保険を介さない汎用の学習給付制度がない。", "category": "リカレント・大学", "tags": ["海外", "韓国", "学習バウチャー", "個人給付"], "publishedAt": "2026-08-26T08:30:00+09:00"}, {"issueDate": "2026-08-26", "issueLabel": "第3号", "id": "world-003", "articleType": "WORLD", "title": "国際識字デー、9月8日に制定60周年", "subtitle": null, "lead": "9月8日の国際識字デーは1966年のユネスコ総会で制定され、今年で60周年を迎える。世界式典はメキシコとの共催で9月8・9日に開かれる。", "category": "海外・国際機関", "tags": ["国際識字デー", "ユネスコ", "識字", "60周年"], "publishedAt": "2026-08-26T09:45:00+09:00"}, {"issueDate": "2026-08-26", "issueLabel": "第3号", "id": "culture-003", "articleType": "CULTURE", "title": "数えられる利用者、数えられない時間", "subtitle": null, "lead": "社会教育統計の「1施設当たり利用者数」が数えているのは、扉をくぐった回数である。何を学んだか、誰と話したかは含まれない。", "category": "博物館・文化", "tags": ["文化", "統計", "指標"], "publishedAt": "2026-08-26T11:15:00+09:00"}];
+  const articles = [{"issueDate": "2026-08-05", "issueLabel": "創刊第1号", "id": "front-lead-shakaikyoiku", "articleType": "NEWS", "title": "社会教育の在り方、中教審の審議が大詰めへ", "subtitle": "特別部会が意見整理を公表、社会教育士の養成も論点に", "lead": "中央教育審議会生涯学習分科会の下に置かれた「社会教育の在り方に関する特別部会」の審議が大詰めを迎えている。文部科学省は令和8年5月22日、同部会の「審議事項2に関する意見の整理」を公表した。", "category": "総合", "tags": ["政策", "中央教育審議会", "社会教育"], "publishedAt": "2026-08-05T07:00:00+09:00"}, {"issueDate": "2026-08-05", "issueLabel": "創刊第1号", "id": "col-chief-editor-001", "articleType": "CHIEF_EDITOR", "title": "創刊にあたって——学びは誰のものか", "subtitle": "編集長コラム「学びの周辺」第1回", "lead": "本日、生涯学習新聞を創刊します。制度が整うほどに、学びは「提供されるもの」の顔をし始める——その循環をどう取り戻すかを考えます。", "category": "コラム", "tags": ["編集長コラム", "創刊", "生涯学習"], "publishedAt": "2026-08-05T10:00:00+09:00"}, {"issueDate": "2026-08-05", "issueLabel": "創刊第1号", "id": "editorial-001", "articleType": "EDITORIAL", "title": "社会教育士という称号は、何を変えるのか", "subtitle": "編集部はこう見る", "lead": "中教審の特別部会と並行して、社会教育主事・社会教育士の養成に関するワーキング・グループの審議が続いている。2020年に創設された称号は、地域に何をもたらしうるのか。", "category": "論説", "tags": ["論説", "社会教育士", "担い手"], "publishedAt": "2026-08-05T10:15:00+09:00"}, {"issueDate": "2026-08-05", "issueLabel": "創刊第1号", "id": "feature-001", "articleType": "FEATURE", "title": "図書館は「読む」だけの場所ではなくなる——文科省報告書が描く次の図書館像", "subtitle": "今週の特集", "lead": "文部科学省が令和8年3月17日に公表した「図書館が拓く未来の学びと地域社会（報告書）」は、公共図書館に「読む」×「集う」×「学ぶ」の掛け算による地域共創を求めた。", "category": "特集", "tags": ["特集", "図書館", "地域共創"], "publishedAt": "2026-08-05T10:30:00+09:00"}, {"issueDate": "2026-08-05", "issueLabel": "創刊第1号", "id": "policy-001", "articleType": "MARKET", "title": "社会教育士、養成のワーキング・グループが審議継続", "subtitle": null, "lead": "「社会教育主事・社会教育士養成等の改善・充実に関するワーキング・グループ」は令和8年7月3日に第7回の議事録が公表された。2020年創設の称号は地域に定着するか。", "category": "公民館・社会教育", "tags": ["社会教育士", "担い手", "制度"], "publishedAt": "2026-08-05T10:45:00+09:00"}, {"issueDate": "2026-08-05", "issueLabel": "創刊第1号", "id": "recurrent-001", "articleType": "BUSINESS", "title": "「リカレント教育エコシステム構築支援事業」とは何か", "subtitle": null, "lead": "2025年7月18日、令和7年度から始動する「リカレント教育エコシステム構築支援事業」が発表された。大学ならではの「深い学び」を通じたキャリアアップ支援の枠組みである。", "category": "リカレント・大学", "tags": ["リカレント教育", "大学", "政策"], "publishedAt": "2026-08-05T08:30:00+09:00"}, {"issueDate": "2026-08-05", "issueLabel": "創刊第1号", "id": "recurrent-002", "articleType": "MARKET", "title": "通信制大学の在学者、約8割が社会人", "subtitle": null, "lead": "通信制大学の在学者のうち、およそ80％を社会人が占めるとされる。初年度納付金は平均20万円台とされ、費用面のハードルの低さが働きながら学ぶ層の受け皿になっている。", "category": "リカレント・大学", "tags": ["リカレント教育", "通信制大学", "社会人"], "publishedAt": "2026-08-05T08:00:00+09:00"}, {"issueDate": "2026-08-05", "issueLabel": "創刊第1号", "id": "culture-001", "articleType": "CULTURE", "title": "博物館という装置は、何を引き受けてきたか", "subtitle": null, "lead": "「望ましい基準」の全部改正でデジタルアーカイブの作成が努力義務として書き込まれた。保存と公開という博物館の二面性を、あらためて考える。", "category": "博物館・文化", "tags": ["博物館", "デジタルアーカイブ", "文化"], "publishedAt": "2026-08-05T11:00:00+09:00"}, {"issueDate": "2026-08-16", "issueLabel": "第2号", "id": "front-lead-unesco-older-adults", "articleType": "WORLD", "title": "ユネスコ、高齢者の学び直しを5か国調査", "subtitle": "日本の事例は立教セカンドステージ大学　障壁に資金・デジタル・年齢差別", "lead": "ユネスコ生涯学習研究所（UIL）が、高齢者向けリスキリング・アップスキリング事業の実施条件を比較した調査報告書を公表した。対象はコロンビア、日本、シンガポール、スウェーデン、米国の5か国である。", "category": "総合", "tags": ["海外", "ユネスコ", "シニアの学び", "リスキリング"], "publishedAt": "2026-08-16T07:00:00+09:00"}, {"issueDate": "2026-08-16", "issueLabel": "第2号", "id": "col-chief-editor-002", "articleType": "CHIEF_EDITOR", "title": "学びを「記録」から「力」へ", "subtitle": "――デジタルバッジが拓く、新しい生涯学習のかたち／編集長コラム「学びの周辺」第2回", "lead": "「受講した事実」だけでなく、「何を学び、どのような能力を身につけたのか」を社会に分かりやすく示す仕組みが要る。マイクロクレデンシャルとデジタルバッジが拓く、生涯学習の新しいかたちを考えます。", "category": "コラム", "tags": ["編集長コラム", "デジタルバッジ", "マイクロクレデンシャル", "認定制度", "生涯学習"], "publishedAt": "2026-08-16T10:15:00+09:00"}, {"issueDate": "2026-08-16", "issueLabel": "第2号", "id": "editorial-002", "articleType": "EDITORIAL", "title": "成人の16％——生涯学習は予算配分の問題である", "subtitle": "編集部はこう見る", "lead": "ILOが2026年5月5日に公表した旗艦報告書は、世界の15〜64歳のうち体系的な訓練を受けた人は16％にとどまるとした。この数字を、意欲の不足として読むことはできない。", "category": "論説", "tags": ["論説", "ILO", "社会教育費", "予算"], "publishedAt": "2026-08-16T10:30:00+09:00"}, {"issueDate": "2026-08-16", "issueLabel": "第2号", "id": "feature-002", "articleType": "FEATURE", "title": "高齢者の学び直しを、世界はどう見ているか——ユネスコ5か国調査と日本", "subtitle": "今週の特集", "lead": "ユネスコ生涯学習研究所の調査報告書が、高齢者向けリスキリング・アップスキリング事業を5か国で比較した。担い手の顔ぶれは国によってまるで違う。", "category": "特集", "tags": ["特集", "ユネスコ", "シニアの学び", "国際比較"], "publishedAt": "2026-08-16T10:45:00+09:00"}, {"issueDate": "2026-08-16", "issueLabel": "第2号", "id": "stats-002", "articleType": "NEWS", "title": "公民館は減り、図書館・博物館は過去最多", "subtitle": "令和6年度社会教育統計の確定値", "lead": "文部科学省が令和8年3月27日に公表した令和6年度社会教育統計の確定値では、施設種別で明暗が分かれた。公民館は施設数も指導系職員も減少し、図書館・博物館は過去最多となった。", "category": "公民館・社会教育", "tags": ["統計", "社会教育調査", "公民館", "図書館", "博物館"], "publishedAt": "2026-08-16T07:30:00+09:00"}, {"issueDate": "2026-08-16", "issueLabel": "第2号", "id": "policy-002", "articleType": "NEWS", "title": "中教審特別部会、8月時点でも取りまとめ未公表", "subtitle": null, "lead": "「社会教育の在り方に関する特別部会」について、本紙が確認した範囲では、8月中旬の時点でも最終的な取りまとめは公表されていない。", "category": "政策・行政", "tags": ["政策", "中央教育審議会", "社会教育"], "publishedAt": "2026-08-16T08:00:00+09:00"}, {"issueDate": "2026-08-16", "issueLabel": "第2号", "id": "recurrent-003", "articleType": "NEWS", "title": "立教セカンドステージ大学、ユネスコ報告書の事例に", "subtitle": null, "lead": "ユネスコ生涯学習研究所の高齢者リスキリング調査で、日本の事例として取り上げられたのは立教大学の「立教セカンドステージ大学」だった。2008年開設、50歳以上が対象の課程である。", "category": "リカレント・大学", "tags": ["リカレント教育", "大学", "シニアの学び", "ユネスコ"], "publishedAt": "2026-08-16T08:30:00+09:00"}, {"issueDate": "2026-08-16", "issueLabel": "第2号", "id": "recurrent-004", "articleType": "MARKET", "title": "OECD「スキル・ファースト労働市場」が問うもの", "subtitle": null, "lead": "OECDが2026年6月18日に公表した報告書は、学歴や資格ではなく実際の技能を軸に採用・人材管理・能力開発を組み替えることを主張する。学び直しの成果を誰がどう認めるのかが論点になる。", "category": "リカレント・大学", "tags": ["OECD", "リスキリング", "マイクロクレデンシャル", "採用"], "publishedAt": "2026-08-16T08:45:00+09:00"}, {"issueDate": "2026-08-16", "issueLabel": "第2号", "id": "world-002", "articleType": "WORLD", "title": "ILO、体系的な訓練を受けた成人は世界で16％", "subtitle": null, "lead": "国際労働機関（ILO）が2026年5月5日、旗艦報告書の2026年版を生涯学習をテーマに公表した。訓練機会は正規雇用に強く偏っている。", "category": "海外・国際機関", "tags": ["海外", "ILO", "成人学習", "統計"], "publishedAt": "2026-08-16T11:00:00+09:00"}, {"issueDate": "2026-08-16", "issueLabel": "第2号", "id": "library-002", "articleType": "WORLD", "title": "米国、図書館助成を140万ドル増額　解体迫られたIMLSは存続", "subtitle": null, "lead": "2026会計年度の歳出法が2026年2月3日に成立し、LSTA関連予算は前年から140万ドル増の2億1,250万ドルとなった。一方2027年度の予算教書は成人教育をゼロ要求としている。", "category": "図書館", "tags": ["海外", "米国", "図書館", "財源", "成人教育"], "publishedAt": "2026-08-16T09:45:00+09:00"}, {"issueDate": "2026-08-16", "issueLabel": "第2号", "id": "culture-002", "articleType": "CULTURE", "title": "宮城県美術館、3年ぶりに再開　「見える収蔵庫」を新設", "subtitle": null, "lead": "2026年6月20日にリニューアルオープン。約3年の休館中に「見える収蔵庫」「キッズスタジオ」が新設された。開館記念展は8月23日まで。", "category": "博物館・文化", "tags": ["博物館", "美術館", "リニューアル", "収蔵"], "publishedAt": "2026-08-16T10:00:00+09:00"}, {"issueDate": "2026-08-26", "issueLabel": "第3号", "id": "front-lead-toukei-003", "articleType": "NEWS", "title": "公民館13,031館、3年で767館減", "subtitle": "社会教育主事は20年で3分の1に、司書は1.75倍　令和6年度社会教育統計", "lead": "本紙が前号で増減の方向のみを報じた令和6年度社会教育統計について、文部科学省の公表資料から具体的な数値を確認した。公民館は13,031館で、前回令和3年度調査から767館、5.6％減った。", "category": "総合", "tags": ["統計", "社会教育", "公民館", "社会教育主事", "司書"], "publishedAt": "2026-08-26T07:00:00+09:00"}, {"issueDate": "2026-08-26", "issueLabel": "第3号", "id": "col-chief-editor-003", "articleType": "CHIEF_EDITOR", "title": "「教育を受ける時代」から「自ら学び続ける時代」へ", "subtitle": "編集長コラム「学びの周辺」第3回　世界の生涯学習・半世紀の歩み", "lead": "「人は何歳になっても学ぶ」という考え方が国際社会の共通認識となったのは、それほど昔のことではありません。1949年のエルシノアから2022年のマラケシュまで、世界が半世紀以上かけて育ててきた歩みを振り返ります。", "category": "コラム", "tags": ["編集長コラム", "生涯学習の歴史", "ユネスコ", "フォール報告", "ドロール報告", "SDGs"], "publishedAt": "2026-08-26T10:00:00+09:00"}, {"issueDate": "2026-08-26", "issueLabel": "第3号", "id": "col-chief-editor-003b", "articleType": "CHIEF_EDITOR", "title": "学ぶ。証明する。実践する。教える。つながる。", "subtitle": "編集長コラム「学びの周辺」第4回　小さな学びを積み重ねる時代へ", "lead": "世界の生涯学習はいま、大きな転換期を迎えています。マイクロクレデンシャル、デジタル認定証、そしてインフォーマル学習の承認。「一度大きな資格を取得する社会」から「小さな学びを積み重ね、その成果を社会と共有する社会」へ。", "category": "コラム", "tags": ["編集長コラム", "マイクロクレデンシャル", "デジタルバッジ", "インフォーマル学習", "AI", "OECD"], "publishedAt": "2026-08-26T10:10:00+09:00"}, {"issueDate": "2026-08-26", "issueLabel": "第3号", "id": "editorial-003", "articleType": "EDITORIAL", "title": "「過去最多」の中身を読む——定義が変われば、数字も変わる", "subtitle": "編集部はこう見る", "lead": "生涯学習センターは496施設から1,079施設へと倍増し過去最多となった。ただし公表資料には、この増加が定義変更によるものであるという但し書きが付いている。", "category": "論説", "tags": ["論説", "統計", "生涯学習センター", "定義変更"], "publishedAt": "2026-08-26T10:15:00+09:00"}, {"issueDate": "2026-08-26", "issueLabel": "第3号", "id": "feature-003", "articleType": "FEATURE", "title": "数字が語る社会教育の二十年——施設は減り、職員は増え、利用者は戻りきらない", "subtitle": "今週の特集", "lead": "令和6年度社会教育統計は平成16年度からの推移を並べて示している。20年分を通して読むと、三つの異なる動きが同時に進んでいることが分かる。", "category": "特集", "tags": ["特集", "統計", "社会教育", "長期推移"], "publishedAt": "2026-08-26T10:30:00+09:00"}, {"issueDate": "2026-08-26", "issueLabel": "第3号", "id": "stats-003", "articleType": "NEWS", "title": "生涯学習センターの倍増は、定義変更によるもの", "subtitle": "前号の記述に但し書きを補う", "lead": "生涯学習センターは496施設から1,079施設へ117.5％増えたが、公表資料には定義変更による整理である旨の注記が付いている。", "category": "統計・調査", "tags": ["統計", "生涯学習センター", "定義変更", "訂正・補足"], "publishedAt": "2026-08-26T08:00:00+09:00"}, {"issueDate": "2026-08-26", "issueLabel": "第3号", "id": "recurrent-005", "articleType": "MARKET", "title": "韓国、学習バウチャー11万5千人規模に", "subtitle": "AI・デジタル枠を新設、国家奨学金との併給も解禁", "lead": "韓国教育部が2026年3月9日に発表した平生教育利用券事業は、支援対象を11万5千人規模としている。日本には雇用保険を介さない汎用の学習給付制度がない。", "category": "リカレント・大学", "tags": ["海外", "韓国", "学習バウチャー", "個人給付"], "publishedAt": "2026-08-26T08:30:00+09:00"}, {"issueDate": "2026-08-26", "issueLabel": "第3号", "id": "world-003", "articleType": "WORLD", "title": "国際識字デー、9月8日に制定60周年", "subtitle": null, "lead": "9月8日の国際識字デーは1966年のユネスコ総会で制定され、今年で60周年を迎える。世界式典はメキシコとの共催で9月8・9日に開かれる。", "category": "海外・国際機関", "tags": ["国際識字デー", "ユネスコ", "識字", "60周年"], "publishedAt": "2026-08-26T09:45:00+09:00"}, {"issueDate": "2026-08-26", "issueLabel": "第3号", "id": "culture-003", "articleType": "CULTURE", "title": "数えられる利用者、数えられない時間", "subtitle": null, "lead": "社会教育統計の「1施設当たり利用者数」が数えているのは、扉をくぐった回数である。何を学んだか、誰と話したかは含まれない。", "category": "博物館・文化", "tags": ["文化", "統計", "指標"], "publishedAt": "2026-08-26T11:15:00+09:00"}];
 
   function issueUrl(a) {
     return 'issues/' + a.issueDate + '.html?goto=' + encodeURIComponent(a.id);

diff --git a/backnumbers.html b/backnumbers.html
@@ -117,7 +117,7 @@
       <a class="issue-card" href="issues/2026-08-26.html">
         <div class="issue-no">第3号</div>
         <div class="issue-date">2026年8月26日（水）</div>
-        <div class="issue-top"><span class="badge">NEWS</span>公民館13,031館、3年で767館減／社会教育主事は20年で3分の1、司書は1.75倍／編集長コラム「学びを支える人は、どこへ移ったのか」「読み書きができる、の先にあるもの」</div>
+        <div class="issue-top"><span class="badge">NEWS</span>公民館13,031館、3年で767館減／社会教育主事は20年で3分の1、司書は1.75倍／編集長コラム「『教育を受ける時代』から『自ら学び続ける時代』へ」「学ぶ。証明する。実践する。教える。つながる。」</div>
       </a>
     </li>
     <li>

diff --git a/index.html b/index.html
@@ -132,7 +132,7 @@
       <span class="latest-badge">最新号</span>
       <div class="latest-no">第3号</div>
       <div class="latest-date">2026年8月26日（水）発行</div>
-      <div class="latest-top">公民館13,031館、3年で767館減／社会教育主事は20年で3分の1、司書は1.75倍／編集長コラム「学びを支える人は、どこへ移ったのか」「読み書きができる、の先にあるもの」</div>
+      <div class="latest-top">公民館13,031館、3年で767館減／社会教育主事は20年で3分の1、司書は1.75倍／編集長コラム「『教育を受ける時代』から『自ら学び続ける時代』へ」「学ぶ。証明する。実践する。教える。つながる。」</div>
       <span class="latest-cta">最新号を読む →</span>
     </a>
   </div>
